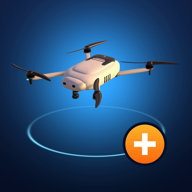
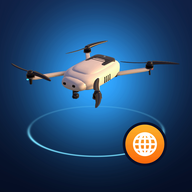
Drone Plus → Drone Online World: ad, simge ve gizlilik politikası
Gizlilik: yeni ad (önceki adı notuyla), 1 Kasım 2026 tarihi, ESA WorldCover
2021 (CC BY 4.0) veri kaynağı eklendi. Ana sayfa: kart, alt metinler ve
meta açıklamaları; simge yeni küre rozetli ikonla değişti.

Changed region(s): [[0.6875, 0.6875, 0.8438, 0.8125]]

diff --git a/drone-plus/gizlilik.html b/drone-plus/gizlilik.html
@@ -3,7 +3,7 @@
 <head>
 <meta charset="utf-8">
 <meta name="viewport" content="width=device-width, initial-scale=1">
-<title>Gizlilik Politikası — Drone Plus</title>
+<title>Gizlilik Politikası — Drone Online World</title>
 <link rel="preconnect" href="https://fonts.googleapis.com">
 <link rel="preconnect" href="https://fonts.gstatic.com" crossorigin>
 <link href="https://fonts.googleapis.com/css2?family=Space+Grotesk:wght@500;700&family=IBM+Plex+Mono:wght@400&family=IBM+Plex+Sans:wght@400;500&display=swap" rel="stylesheet">
@@ -37,13 +37,13 @@
 <body>
 <div class="kapsam">
 
-  <p class="etiket">EARDALI · Drone Plus</p>
+  <p class="etiket">EARDALI · Drone Online World</p>
   <h1>Gizlilik Politikası</h1>
-  <p class="tarih">Son güncelleme: 19 Ekim 2026</p>
+  <p class="tarih">Son güncelleme: 1 Kasım 2026</p>
 
   <p>
     Bu gizlilik politikası, ERDOGAN ARDALI (“EARDALI”, “biz”) tarafından geliştirilen
-    <strong>Drone Plus</strong> adlı mobil oyunun (“Oyun”) verilerinizi nasıl işlediğini açıklar.
+    <strong>Drone Online World</strong> (önceki adı Drone Plus) adlı mobil oyunun (“Oyun”) verilerinizi nasıl işlediğini açıklar.
   </p>
 
   <div class="not">
@@ -71,8 +71,8 @@
   </p>
   <p>
     Şehir haritaları © OpenStreetMap katkıcıları (Open Database License), Microsoft Global ML
-    Building Footprints (ODbL) ve Copernicus DEM (© DLR e.V., © Airbus Defence and Space GmbH,
-    Avrupa Birliği ve ESA) verilerinden türetilmiştir. Bu veriler kişisel veri içermez.
+    Building Footprints (ODbL), Copernicus DEM (© DLR e.V., © Airbus Defence and Space GmbH,
+    Avrupa Birliği ve ESA) ve ESA WorldCover 2021 (© ESA WorldCover projesi, CC BY 4.0) verilerinden türetilmiştir. Bu veriler kişisel veri içermez.
   </p>
 
   <h2>3. Cihazınızda saklanan oyun verileri</h2>
@@ -122,17 +122,17 @@
   <hr>
 
   <p class="etiket" id="en">English</p>
-  <h2 style="margin-top:.6rem">Privacy Policy — Drone Plus</h2>
+  <h2 style="margin-top:.6rem">Privacy Policy — Drone Online World</h2>
   <p>
-    <strong>Drone Plus</strong>, developed by ERDOGAN ARDALI (EARDALI), does not collect, store
+    <strong>Drone Online World</strong> (formerly Drone Plus), developed by ERDOGAN ARDALI (EARDALI), does not collect, store
     on any server, or share any personal data. It contains no accounts, ads, analytics or
     third-party tracking. Internet access is used only when you choose to download an optional
     city map from EARDALI’s server (Amazon Web Services, Frankfurt): the request contains only
     the name of the map file — no account, device identifier or personal information. The
     server necessarily sees your IP address to answer the request, but map downloads are not
     logged and IP addresses are not stored. Downloaded maps play offline. City maps are derived
-    from © OpenStreetMap contributors (ODbL), Microsoft Global ML Building Footprints (ODbL) and
-    Copernicus DEM data.
+    from © OpenStreetMap contributors (ODbL), Microsoft Global ML Building Footprints (ODbL),
+    Copernicus DEM and ESA WorldCover 2021 (CC BY 4.0) data.
   </p>
   <p>
     Your game progress and settings are stored only on your device. If Android Auto Backup is

diff --git a/index.html b/index.html
@@ -4,12 +4,12 @@
 <meta charset="utf-8">
 <meta name="viewport" content="width=device-width, initial-scale=1, viewport-fit=cover">
 <title>EARDALI — Mobil uygulama stüdyosu · ERDOGAN ARDALI</title>
-<meta name="description" content="EARDALI, ERDOGAN ARDALI tarafından kurulan bağımsız mobil uygulama stüdyosu. KPSS Kılavuzu, ARDIEN FitCal ve Drone Plus.">
+<meta name="description" content="EARDALI, ERDOGAN ARDALI tarafından kurulan bağımsız mobil uygulama stüdyosu. KPSS Kılavuzu, ARDIEN FitCal ve Drone Online World.">
 <link rel="canonical" href="https://eardali.com/">
 <meta property="og:type" content="website">
 <meta property="og:url" content="https://eardali.com/">
 <meta property="og:title" content="EARDALI — Mobil uygulama stüdyosu">
-<meta property="og:description" content="Günlük hayatı kolaylaştıran mobil uygulamalar: KPSS Kılavuzu, ARDIEN FitCal ve Drone Plus.">
+<meta property="og:description" content="Günlük hayatı kolaylaştıran mobil uygulamalar: KPSS Kılavuzu, ARDIEN FitCal ve Drone Online World.">
 <meta name="theme-color" content="#050816">
 <link rel="preconnect" href="https://fonts.googleapis.com">
 <link rel="preconnect" href="https://fonts.gstatic.com" crossorigin>
@@ -329,7 +329,7 @@
           <img src="assets/ardien-fitcal.png" alt="ARDIEN FitCal" width="44" height="44">
           <img src="assets/borc-harc.png" alt="Borç Harç" width="44" height="44">
           <img src="assets/ezan-rehberi.png" alt="Ezan Rehberi" width="44" height="44">
-          <img src="assets/drone-plus.png" alt="Drone Plus" width="44" height="44">
+          <img src="assets/drone-plus.png" alt="Drone Online World" width="44" height="44">
           <img src="assets/fishing-life.png" alt="Fishing Life" width="44" height="44">
           <span>6 uygulama · Android ve iPhone</span>
         </div>
@@ -446,10 +446,10 @@
 
         <article class="mini drone belir">
           <div class="mini-ust">
-            <div class="simge kucuk"><img src="assets/drone-plus.png" alt="Drone Plus simgesi" width="64" height="64"></div>
+            <div class="simge kucuk"><img src="assets/drone-plus.png" alt="Drone Online World simgesi" width="64" height="64"></div>
             <span class="durum yakinda">Geliştiriliyor</span>
           </div>
-          <h3>Drone Plus</h3>
+          <h3>Drone Online World</h3>
           <p class="kategori">Oyun · Simülasyon · Android</p>
           <p class="aciklama">Şehir, dağ ve sahil haritalarında görev tabanlı, gerçekçi drone uçuş simülasyonu.
             Çevrimdışı çalışır; hesap, reklam ve veri toplama yoktur.</p>
@@ -588,7 +588,7 @@
         </ul>
       </div>
       <div>
-        <h4>Drone Plus</h4>
+        <h4>Drone Online World</h4>
         <ul>
           <li><a href="drone-plus/gizlilik.html">Gizlilik Politikası</a></li>
         </ul>
